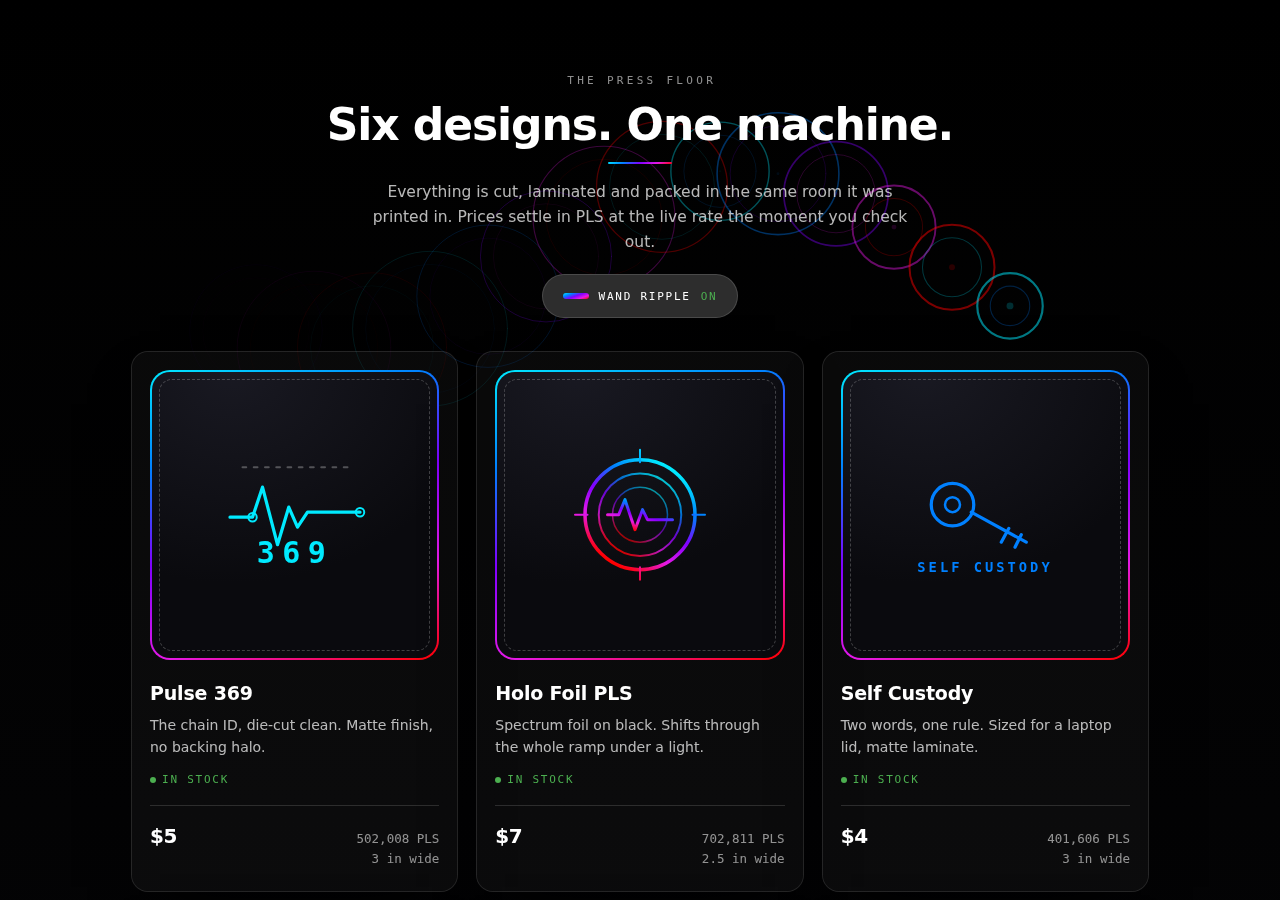
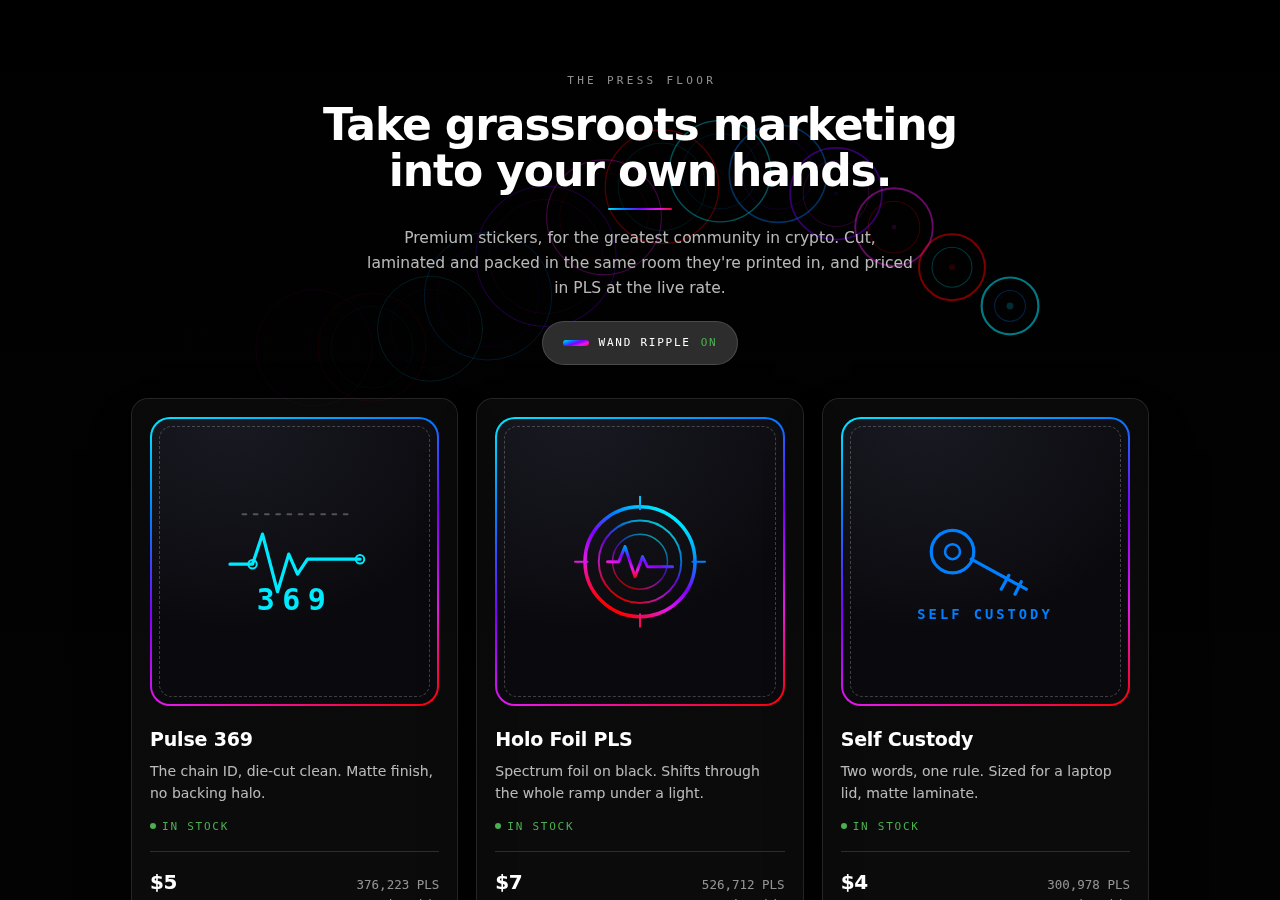
press floor: client copy for the head and deck
Head becomes "Take grassroots marketing into your own hands.", deck becomes
"Premium stickers, for the greatest community in crypto." — Schyler's words,
lightly set.

The deck keeps one clause of the copy it replaces (finished in-house, priced in
PLS at the live rate), because that sentence is what explains the PLS figure
printed on every product card.

.sec-head h2 gains max-width:22ch + text-wrap:balance so the longer head breaks
into two even lines instead of leaving "hands." alone on the last one;
.sec-head p gains text-wrap:pretty. Both degrade to normal wrapping where
unsupported, and neither affects the other two section heads (checked at all
three widths).

Gate: 390/834/1280 scrollWidth == viewport; LCP 336ms, CLS 0.0000; JS-off and
reduced-motion unchanged; impeccable still 10 documented findings.

Claude-Session: https://claude.ai/code/session_01ArGmL3ftu9C1ss7BgpknVS

Head: plspress-com

diff --git a/index.html b/index.html
@@ -109,8 +109,11 @@
   .sec-head{text-align:center;margin-bottom:40px;position:relative;z-index:2}
   .sec-head .kicker{font-family:var(--mono);font-size:11px;letter-spacing:.3em;text-indent:.3em;
     text-transform:uppercase;color:var(--ink-faint);margin-bottom:12px}
-  .sec-head h2{font-weight:800;font-size:clamp(28px,6vw,44px);letter-spacing:-.025em;line-height:1.05}
-  .sec-head p{max-width:56ch;margin:16px auto 0;color:var(--ink-dim)}
+  /* balance/pretty keep a long head off a one-word last line; both degrade to
+     normal wrapping where unsupported, so nothing depends on them. */
+  .sec-head h2{font-weight:800;font-size:clamp(28px,6vw,44px);letter-spacing:-.025em;line-height:1.05;
+    max-width:22ch;margin:0 auto;text-wrap:balance}
+  .sec-head p{max-width:56ch;margin:16px auto 0;color:var(--ink-dim);text-wrap:pretty}
   .rule-foil{width:64px;height:2px;margin:14px auto 0;background:var(--foil);border-radius:2px}
 
   /* ── THE PRESS FLOOR: sticker grid ── */
@@ -319,10 +322,10 @@
   <div class="wrap press-inner">
     <div class="sec-head reveal">
       <div class="kicker">The press floor</div>
-      <h2>Six designs. One machine.</h2>
+      <h2>Take grassroots marketing into your own hands.</h2>
       <div class="rule-foil"></div>
-      <p>Everything is cut, laminated and packed in the same room it was printed in.
-         Prices settle in PLS at the live rate the moment you check out.</p>
+      <p>Premium stickers, for the greatest community in crypto. Cut, laminated and packed
+         in the same room they're printed in, and priced in PLS at the live rate.</p>
     </div>
 
     <div class="wand-bar">

diff --git a/DESIGN-NOTES.md b/DESIGN-NOTES.md
@@ -76,7 +76,14 @@ holographic foil. A holo foil is a sticker. That is the whole design.
    *Gotcha worth keeping:* a `var()` inside a custom property resolves against the element that
    **declares** it, so a single `--mid-bloom` parameterised by an overridable `--mid-anchor` silently
    used `:root`'s value and bloomed at the centre of `#press` instead of its edge. Two tokens, not one.
-3. **Wand trail → wand ripple.** Same canvas, same toggle, same persistence and reduced-motion
+3. **Press-floor copy is now the client's.** Head: "Take grassroots marketing into your own
+   hands." Deck: "Premium stickers, for the greatest community in crypto." — both from Schyler on
+   2026-08-27, lightly set. The deck keeps one clause of the old copy (in-house finishing, priced
+   in PLS at the live rate) because the live-rate note is what explains the PLS figure on every
+   card. `.sec-head h2` picked up `max-width:22ch` + `text-wrap:balance` so the longer head does
+   not rag to a one-word last line; `.sec-head p` picked up `text-wrap:pretty`. Both degrade to
+   normal wrapping where unsupported.
+4. **Wand trail → wand ripple.** Same canvas, same toggle, same persistence and reduced-motion
    defaults; the drawing changed from a tapering gradient polyline to discrete expanding rings —
    two concentric strokes with the inner one lagging, plus a crest that fades as the ring escapes
    it. Ripples only spawn once the pointer has travelled 26px, which is what stops it collapsing
